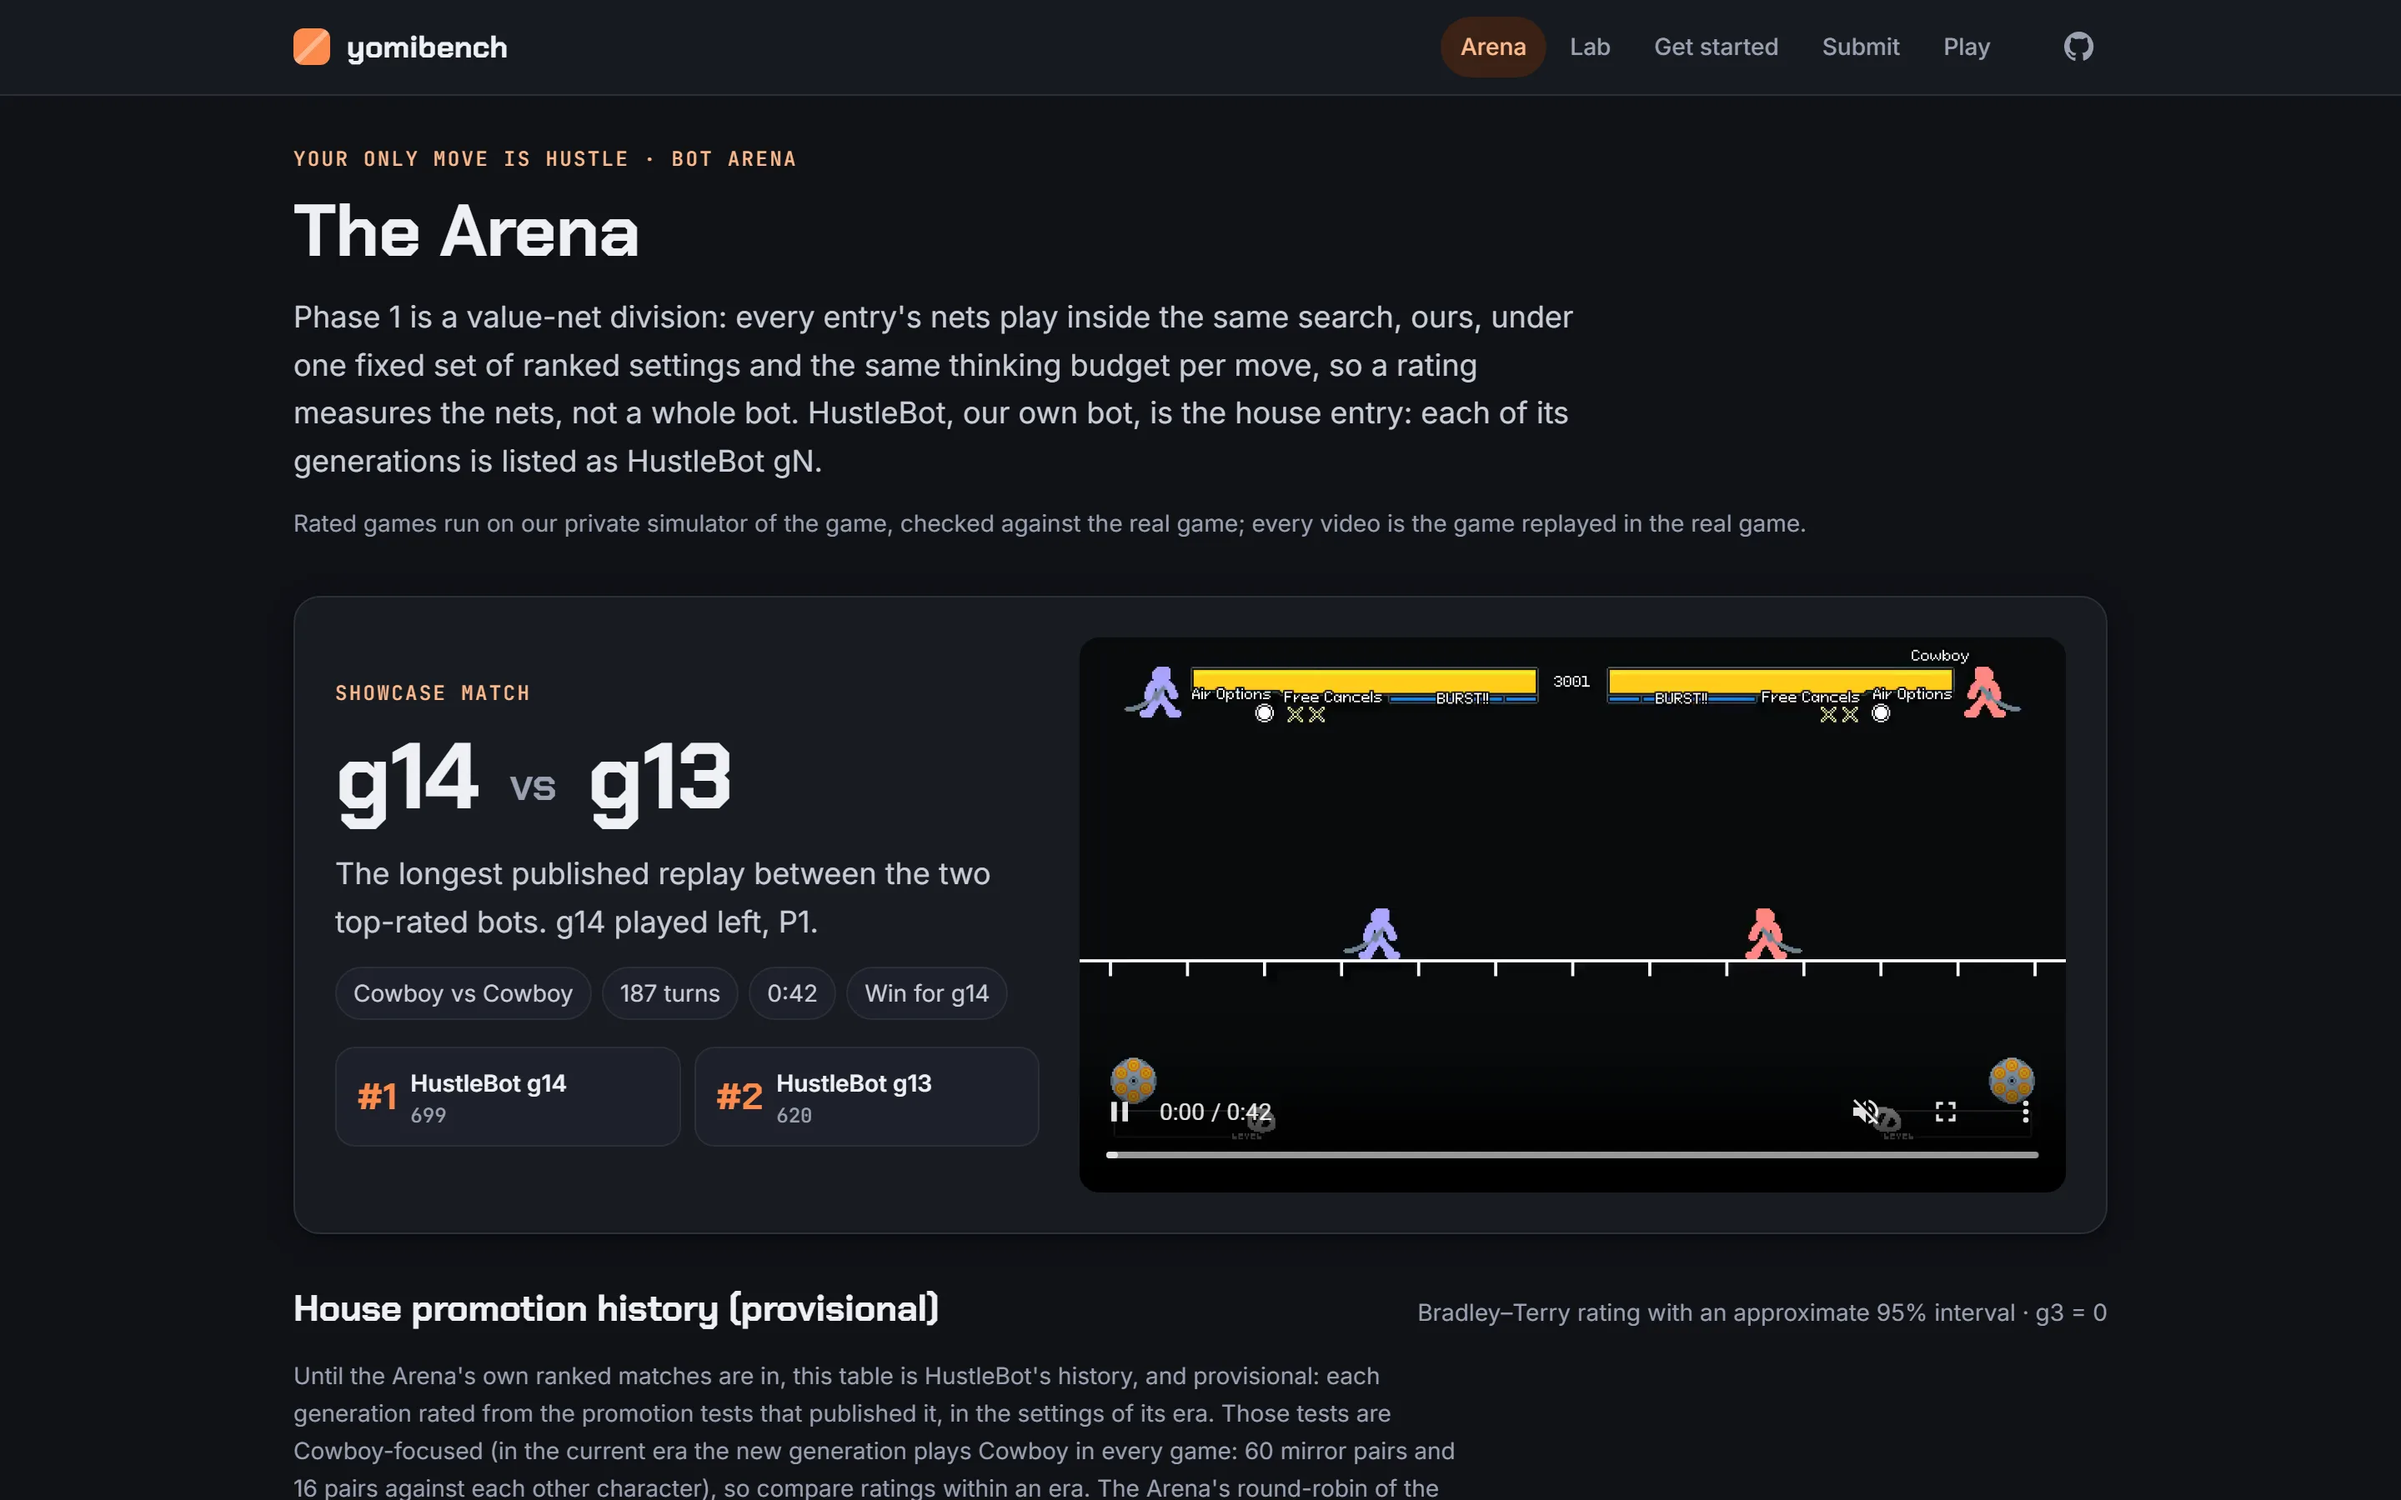
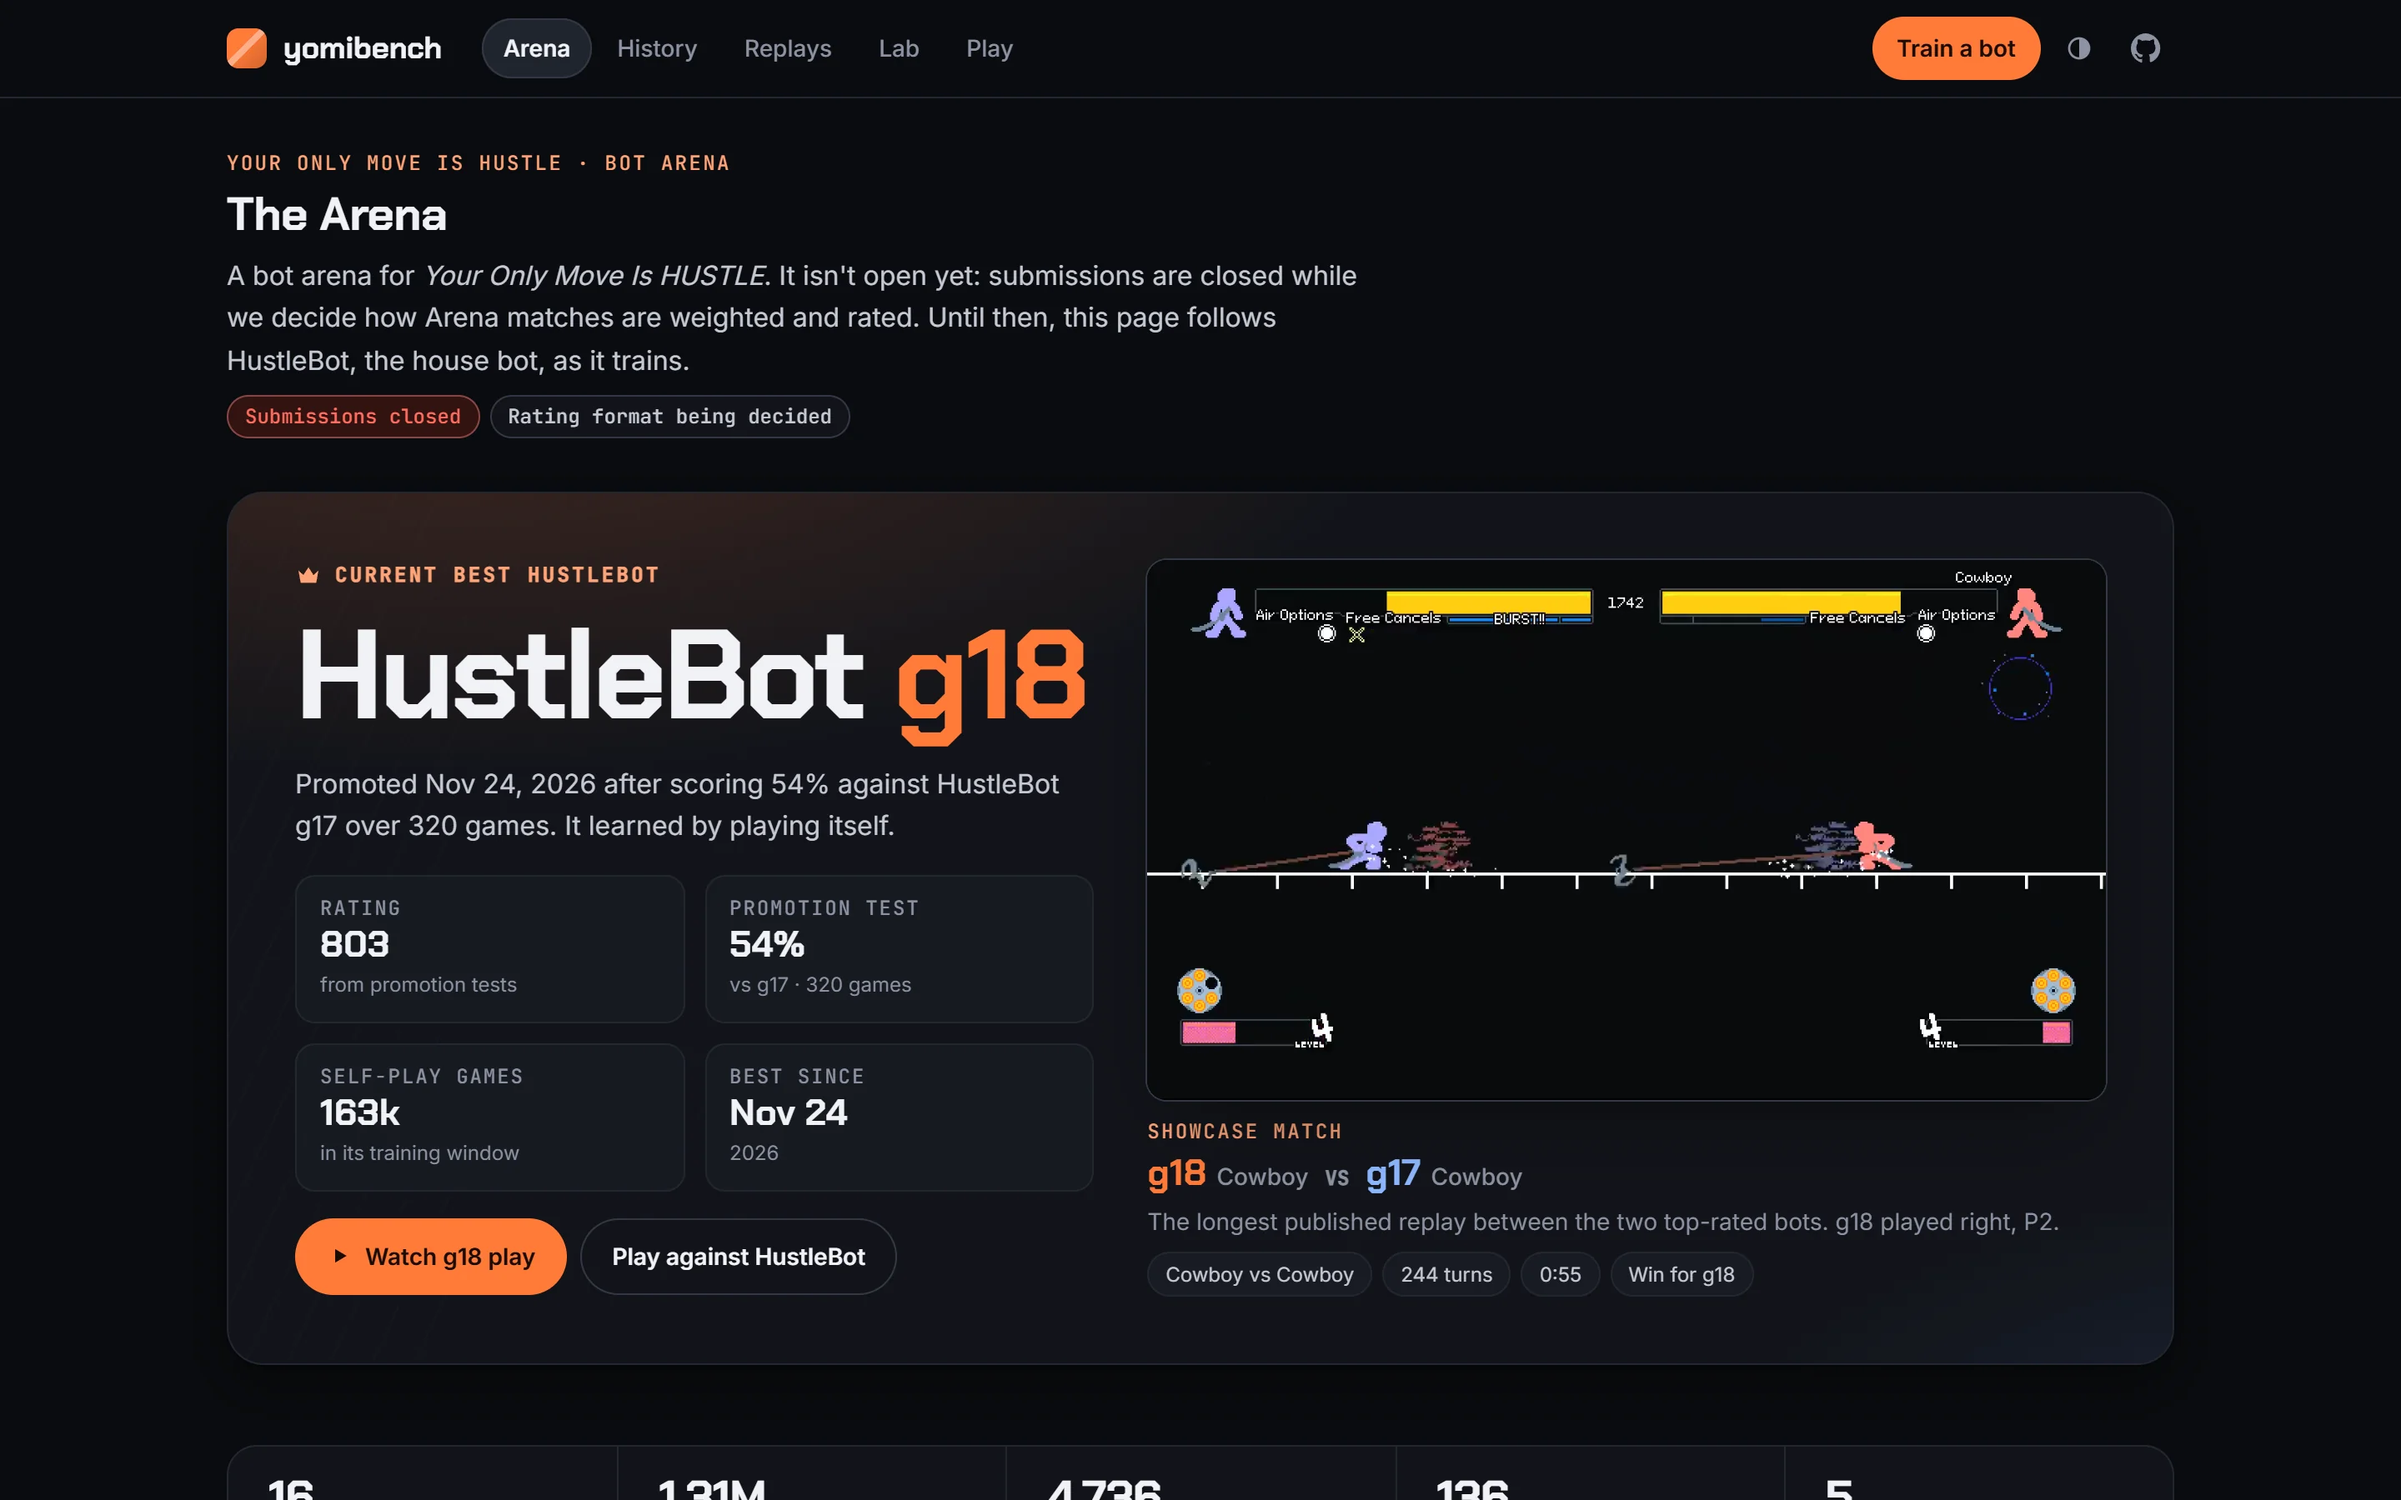
Refresh YomiBench screenshots and numbers after the site redesign
New captures of the Arena, Lab and HustleBot g18 pages at 1440x900 @2x,
captions updated to match what the redesigned pages show, and the case
metrics brought up to g18: 16 generations promoted, 54% against g17.

diff --git a/content/portfolio/projects.ts b/content/portfolio/projects.ts
@@ -263,8 +263,8 @@ export const portfolioProjects: PortfolioProject[] = [
     challenge:
       "In Your Only Move Is HUSTLE both players lock in a move without seeing the other's, so every turn is a guessing game and the best play is a mix, not a single move. That makes it a great testbed for game-theory search plus learning, the AlphaZero recipe, on a game nobody had built it for. I also wanted every claimed improvement to be honest: a new bot only counts if it wins a test whose rules were fixed before any game.",
     metrics: [
-      { value: "14", label: "HustleBot generations promoted" },
-      { value: "62%", label: "Latest generation's score against the one before" },
+      { value: "16", label: "HustleBot generations promoted" },
+      { value: "54%", label: "Latest generation's score against the one before" },
       { value: "30–130×", label: "Rust solver speedup, bit-identical" },
     ],
     outcomes: ["Self-play training", "Playable in-game"],
@@ -329,7 +329,7 @@ export const portfolioProjects: PortfolioProject[] = [
       {
         label: "The Arena",
         description:
-          "The leaderboard, with a showcase match between the two top-rated bots replayed in the real game.",
+          "The current best HustleBot, with a showcase match against the generation before it, replayed in the real game.",
       },
       {
         label: "The Lab",
@@ -339,7 +339,7 @@ export const portfolioProjects: PortfolioProject[] = [
       {
         label: "A generation's record",
         description:
-          "Each generation gets its own page: rating with a confidence interval, its promotion test, and results by matchup.",
+          "Each generation gets its own page: rating with a confidence interval, its promotion test, and its standout games from that test.",
       },
     ],
     sections: [
